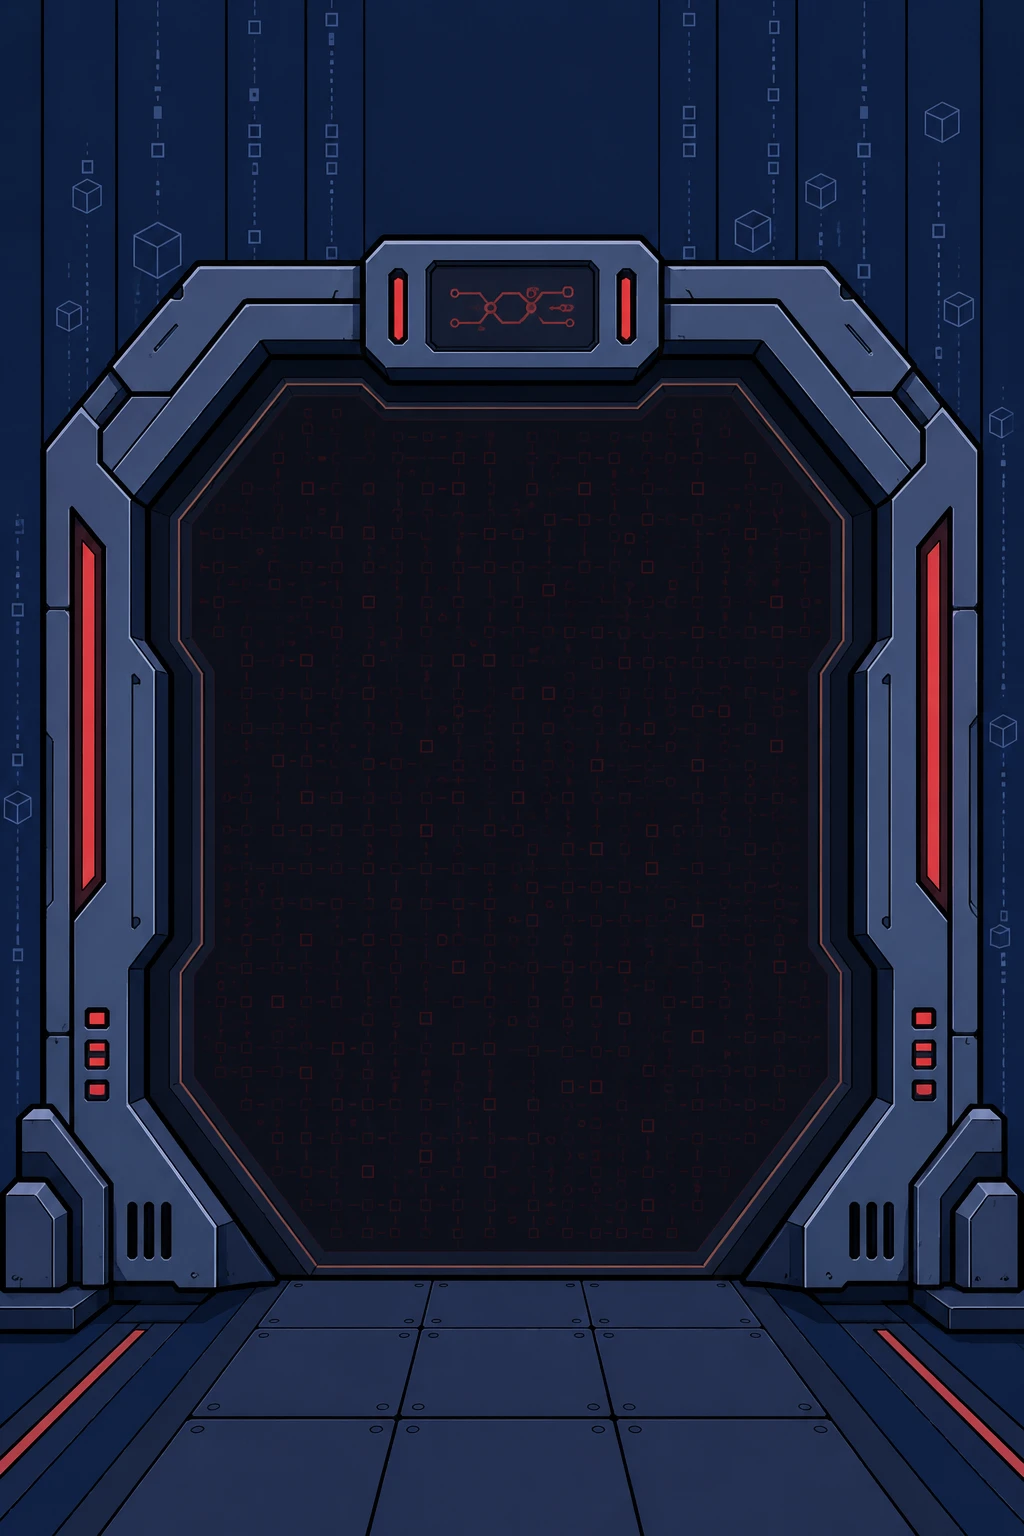
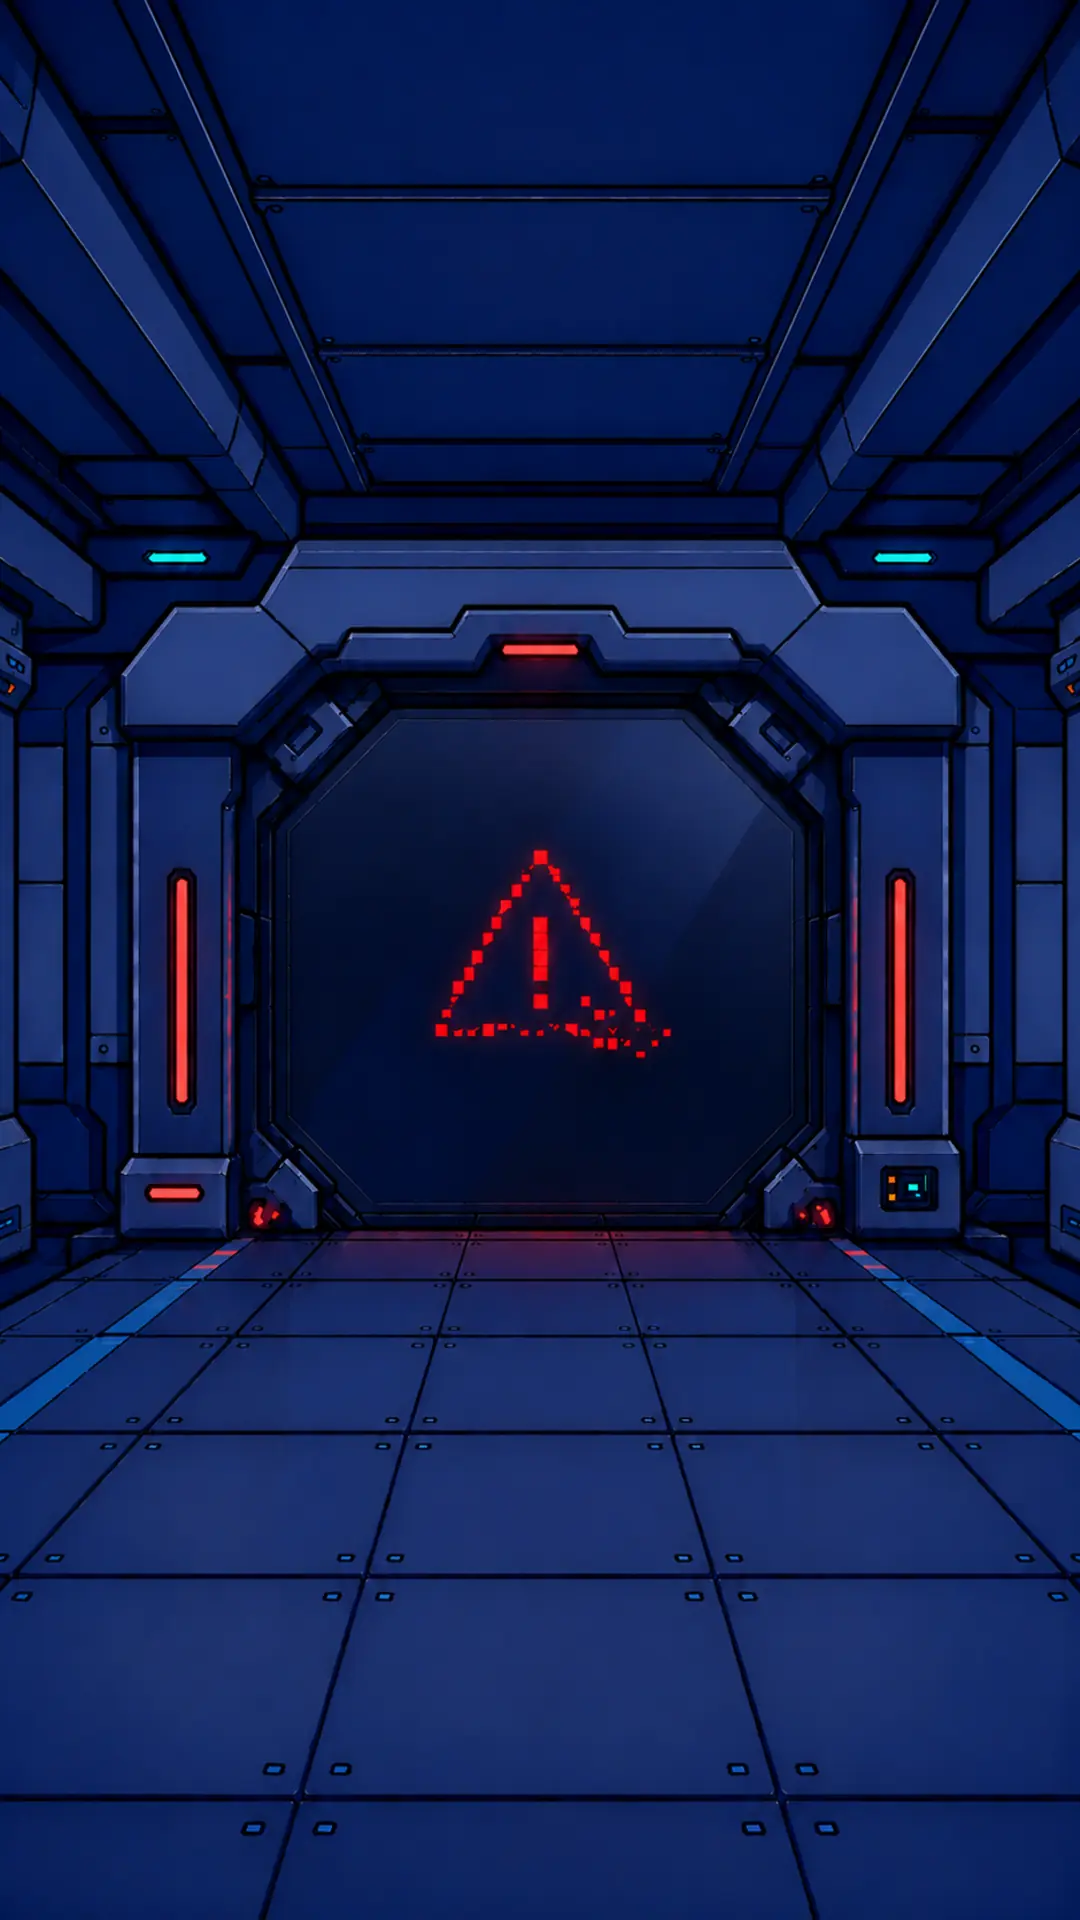
start screens

diff --git a/src/Components/Main/ScreenOrientationWarning/ScreenOrientationWarning.style.scss b/src/Components/Main/ScreenOrientationWarning/ScreenOrientationWarning.style.scss
@@ -13,7 +13,7 @@
     display: flex;
     flex-flow: column;
     place-content: center;
-    gap: 12px;
+    gap: 220px;
 
     width: 360px;
     height: 640px;
@@ -21,15 +21,30 @@
     transform: translate(-50%, -50%)
       scale(min(tan(atan2(100dvw, 360px)), tan(atan2(100dvh, 640px))));
 
-    padding: 32px 68px 0;
+    padding: 140px 32px 0;
 
     box-shadow: 0 0 4px var(--color-neutral-strong);
     background-image: url('/scenes/device-orientation-warning.webp');
     background-size: cover;
     background-position: center;
 
-    .text {
-      font-size: 12px;
+    > .text {
+      font-size: 24px;
+      font-weight: 400;
+      text-align: center;
+      text-shadow:
+        2px 2px 4px var(--color-neutral-strong),
+        2px 2px 4px var(--color-neutral-strong);
+    }
+
+    > div {
+      display: flex;
+      flex-flow: column;
+      gap: 12px;
+
+      .text {
+        font-size: 14px;
+      }
     }
   }
 }

diff --git a/src/GameData/Scenes/StartScreen/StartScreen.style.scss b/src/GameData/Scenes/StartScreen/StartScreen.style.scss
@@ -5,7 +5,6 @@
 
   width: 100%;
   height: 100%;
-  padding-top: 36px;
 
   background-image: url('/scenes/start-screen.webp');
   background-size: cover;
@@ -14,15 +13,15 @@
   > main {
     display: flex;
     flex-flow: column;
-    gap: 24px;
+    gap: 64px;
 
     width: 240px;
+    padding-bottom: 76px;
 
     > .text {
       font-size: 24px;
       font-weight: 400;
       text-align: center;
-      line-height: var(--line-height-sm);
       text-shadow:
         2px 2px 4px var(--color-neutral-strong),
         2px 2px 4px var(--color-neutral-strong);

diff --git a/src/Components/Main/ScreenOrientationWarning/ScreenOrientationWarning.component.tsx b/src/Components/Main/ScreenOrientationWarning/ScreenOrientationWarning.component.tsx
@@ -8,7 +8,11 @@ export const ScreenOrientationWarning = () => {
   return (
     <div className="warning-container">
       <div className="screen-orientation-warning">
-        <Text as="p">{getTexts('SCREEN_ORIENTATION_WARNING')}</Text>
+        <Text as="p">{getTexts('START_SCREEN_TITLE')}</Text>
+
+        <div>
+          <Text as="p">{getTexts('SCREEN_ORIENTATION_WARNING')}</Text>
+        </div>
       </div>
     </div>
   )

diff --git a/src/GameData/Texts/En/index.ts b/src/GameData/Texts/En/index.ts
@@ -18,7 +18,7 @@ export const GAME_FILE_TIME = `[TIME]`
 export const LOAD_GAME = `Load`
 export const DELETE_GAME_FILE = `Delete`
 
-export const START_SCREEN_TITLE = `Into the\nDigital World!`
+export const START_SCREEN_TITLE = `Into the Digital World!`
 
 // ========================================================================
 // SCREEN ORIENTATION WARNING

diff --git a/src/Components/DesignSystem/Text/Text.style.scss b/src/Components/DesignSystem/Text/Text.style.scss
@@ -1,6 +1,6 @@
 .text {
   color: var(--text-color);
-  line-height: var(--line-height-single);
+  line-height: 1;
   font-weight: 300;
 
   &:is(h1) {
@@ -19,7 +19,7 @@
 
   &:is(p) {
     font-size: 14px;
-    line-height: var(--line-height-md);
+    line-height: 1.5;
 
     white-space: pre-wrap;
   }

diff --git a/src/Components/Global/GameFile/GameFile.style.scss b/src/Components/Global/GameFile/GameFile.style.scss
@@ -37,7 +37,7 @@
     flex: 1;
 
     .text {
-      line-height: var(--line-height-single);
+      line-height: 1;
       text-shadow:
         1px 1px 2px var(--color-neutral-strong),
         1px 1px 2px var(--color-neutral-strong);

diff --git a/src/Assets/vars.css b/src/Assets/vars.css
@@ -13,10 +13,4 @@
   --color-allies: #1b5dd8;
 
   --font-family: 'Winky Rough', sans-serif;
-
-  --line-height-single: 1;
-  --line-height-sm: 1.2;
-  --line-height-md: 1.5;
-  --line-height-lg: 1.8;
-  --line-height-double: 2;
 }

diff --git a/src/Assets/main.css b/src/Assets/main.css
@@ -22,7 +22,7 @@ body {
 
   font-size: 14px;
   font-family: var(--font-family);
-  line-height: var(--line-height-single);
+  line-height: 1;
 
   background-color: var(--color-neutral-strong);
 }
